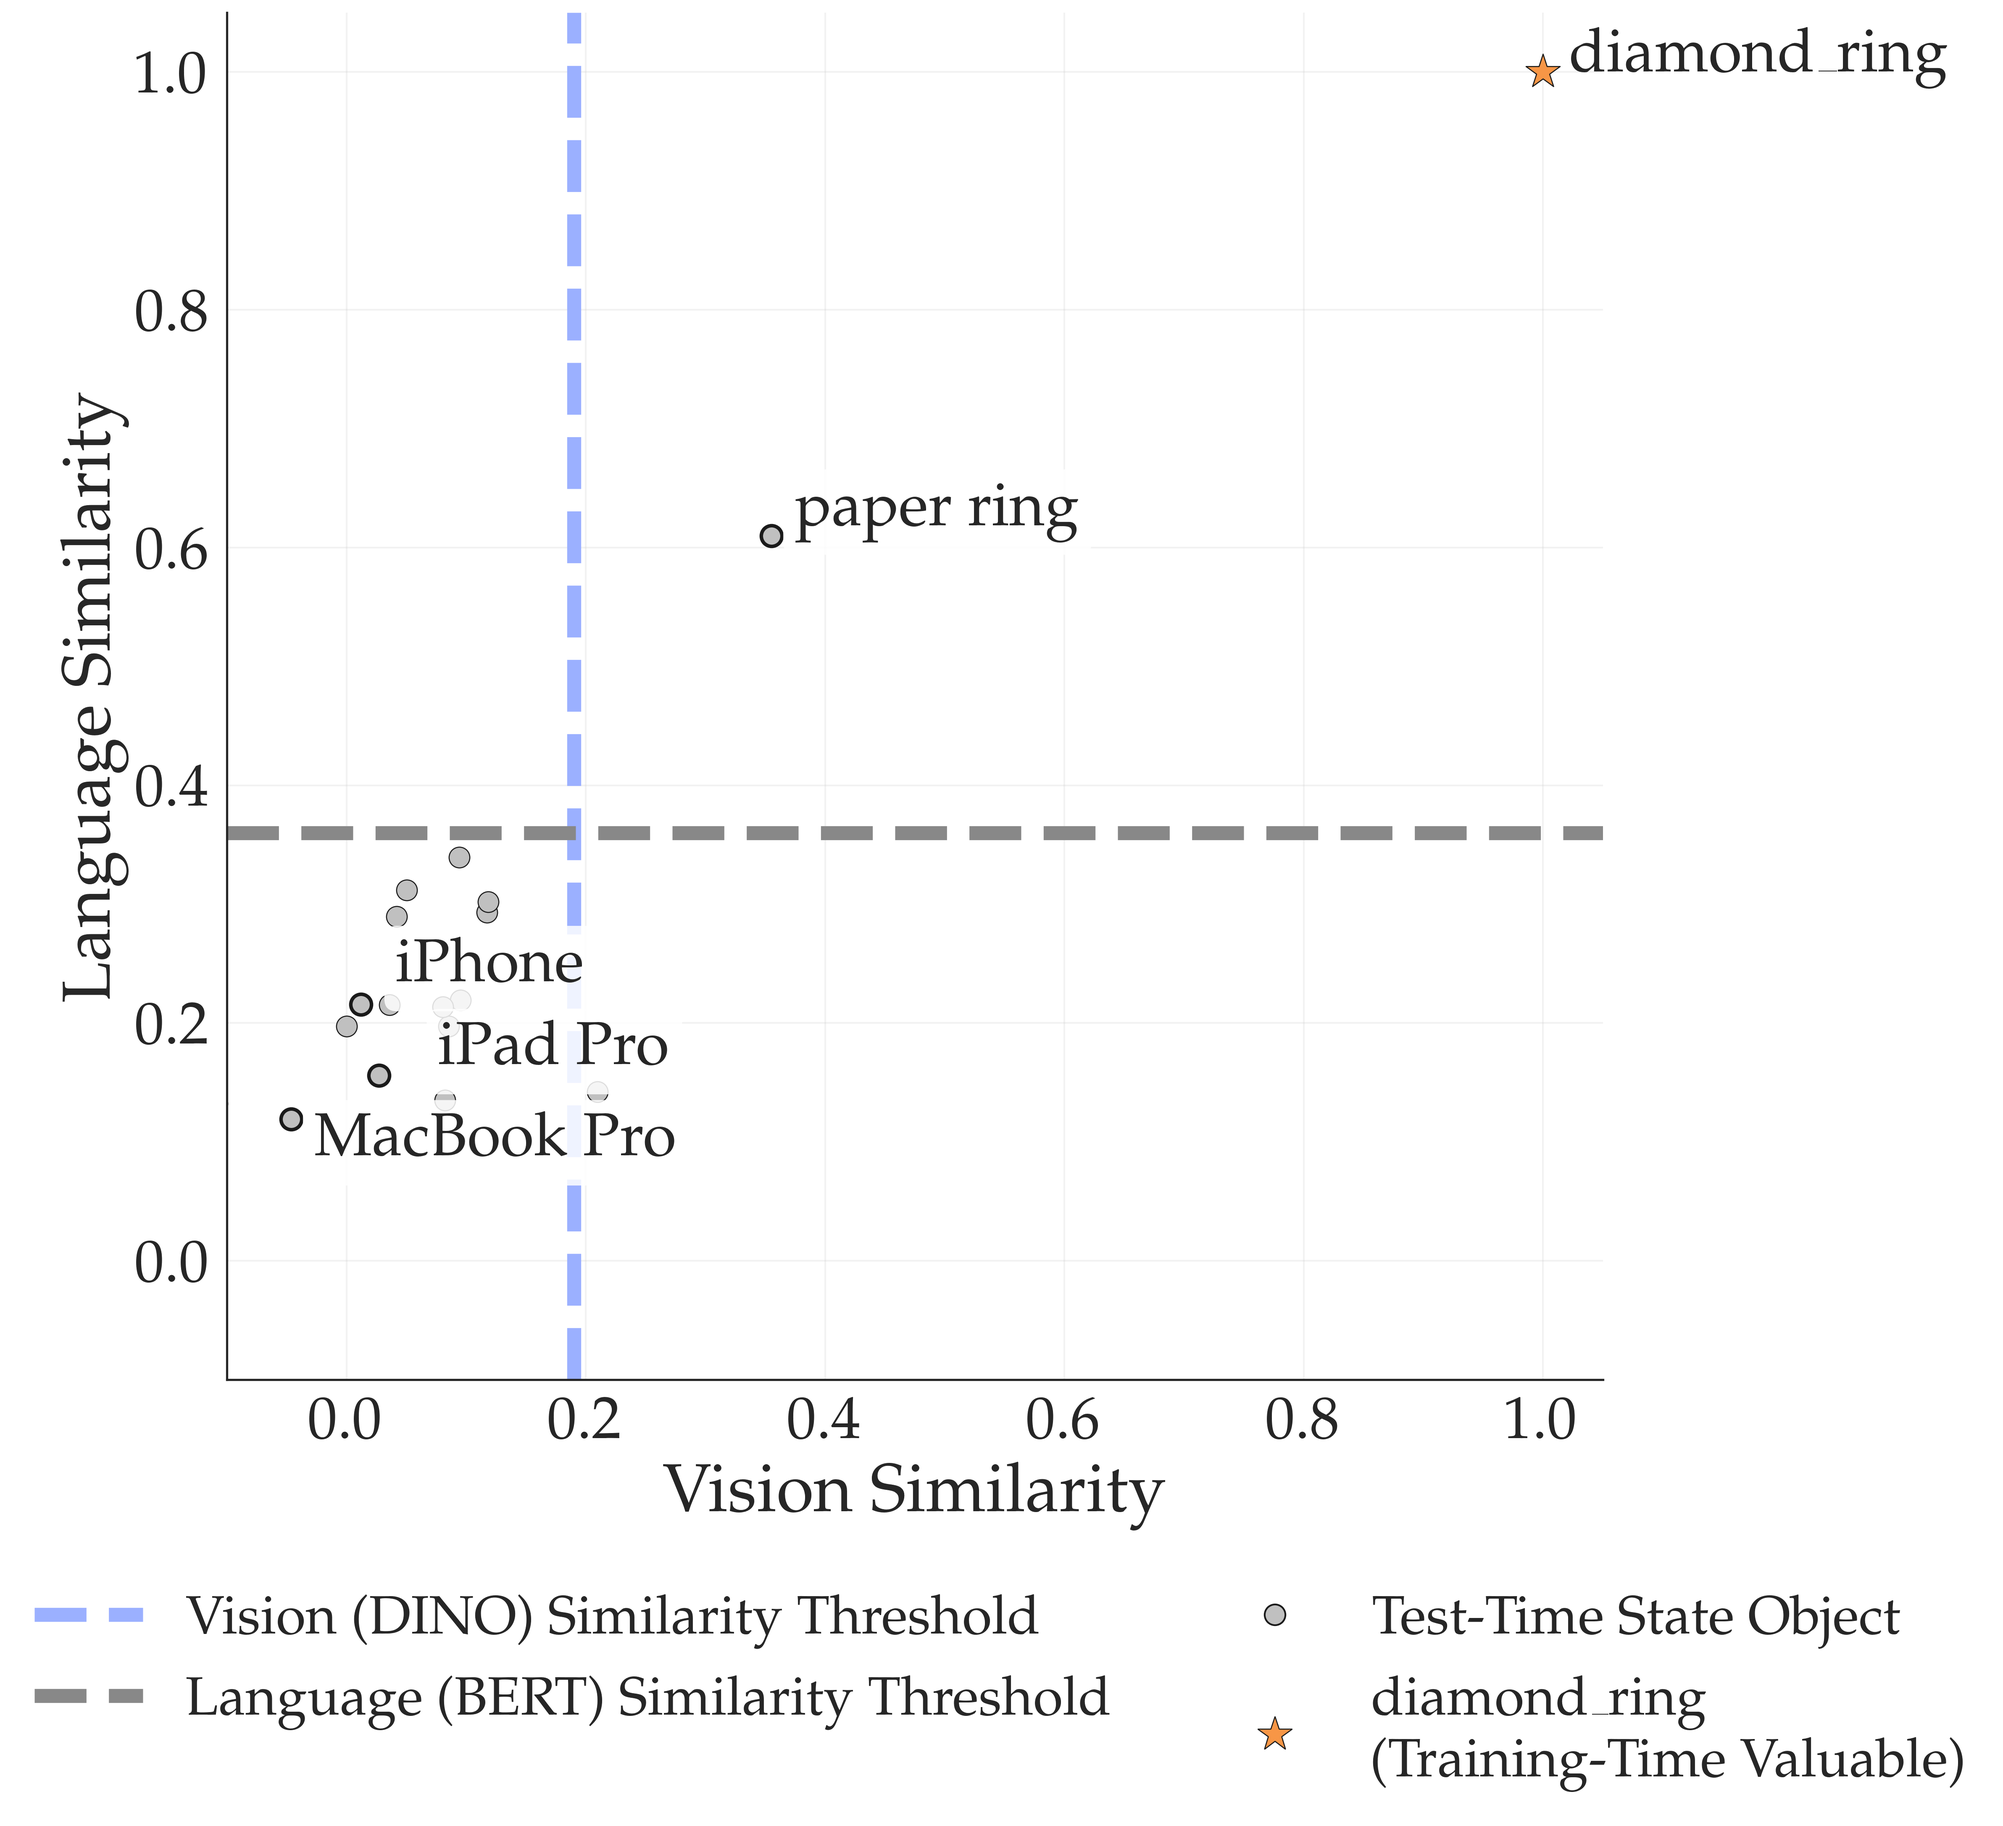
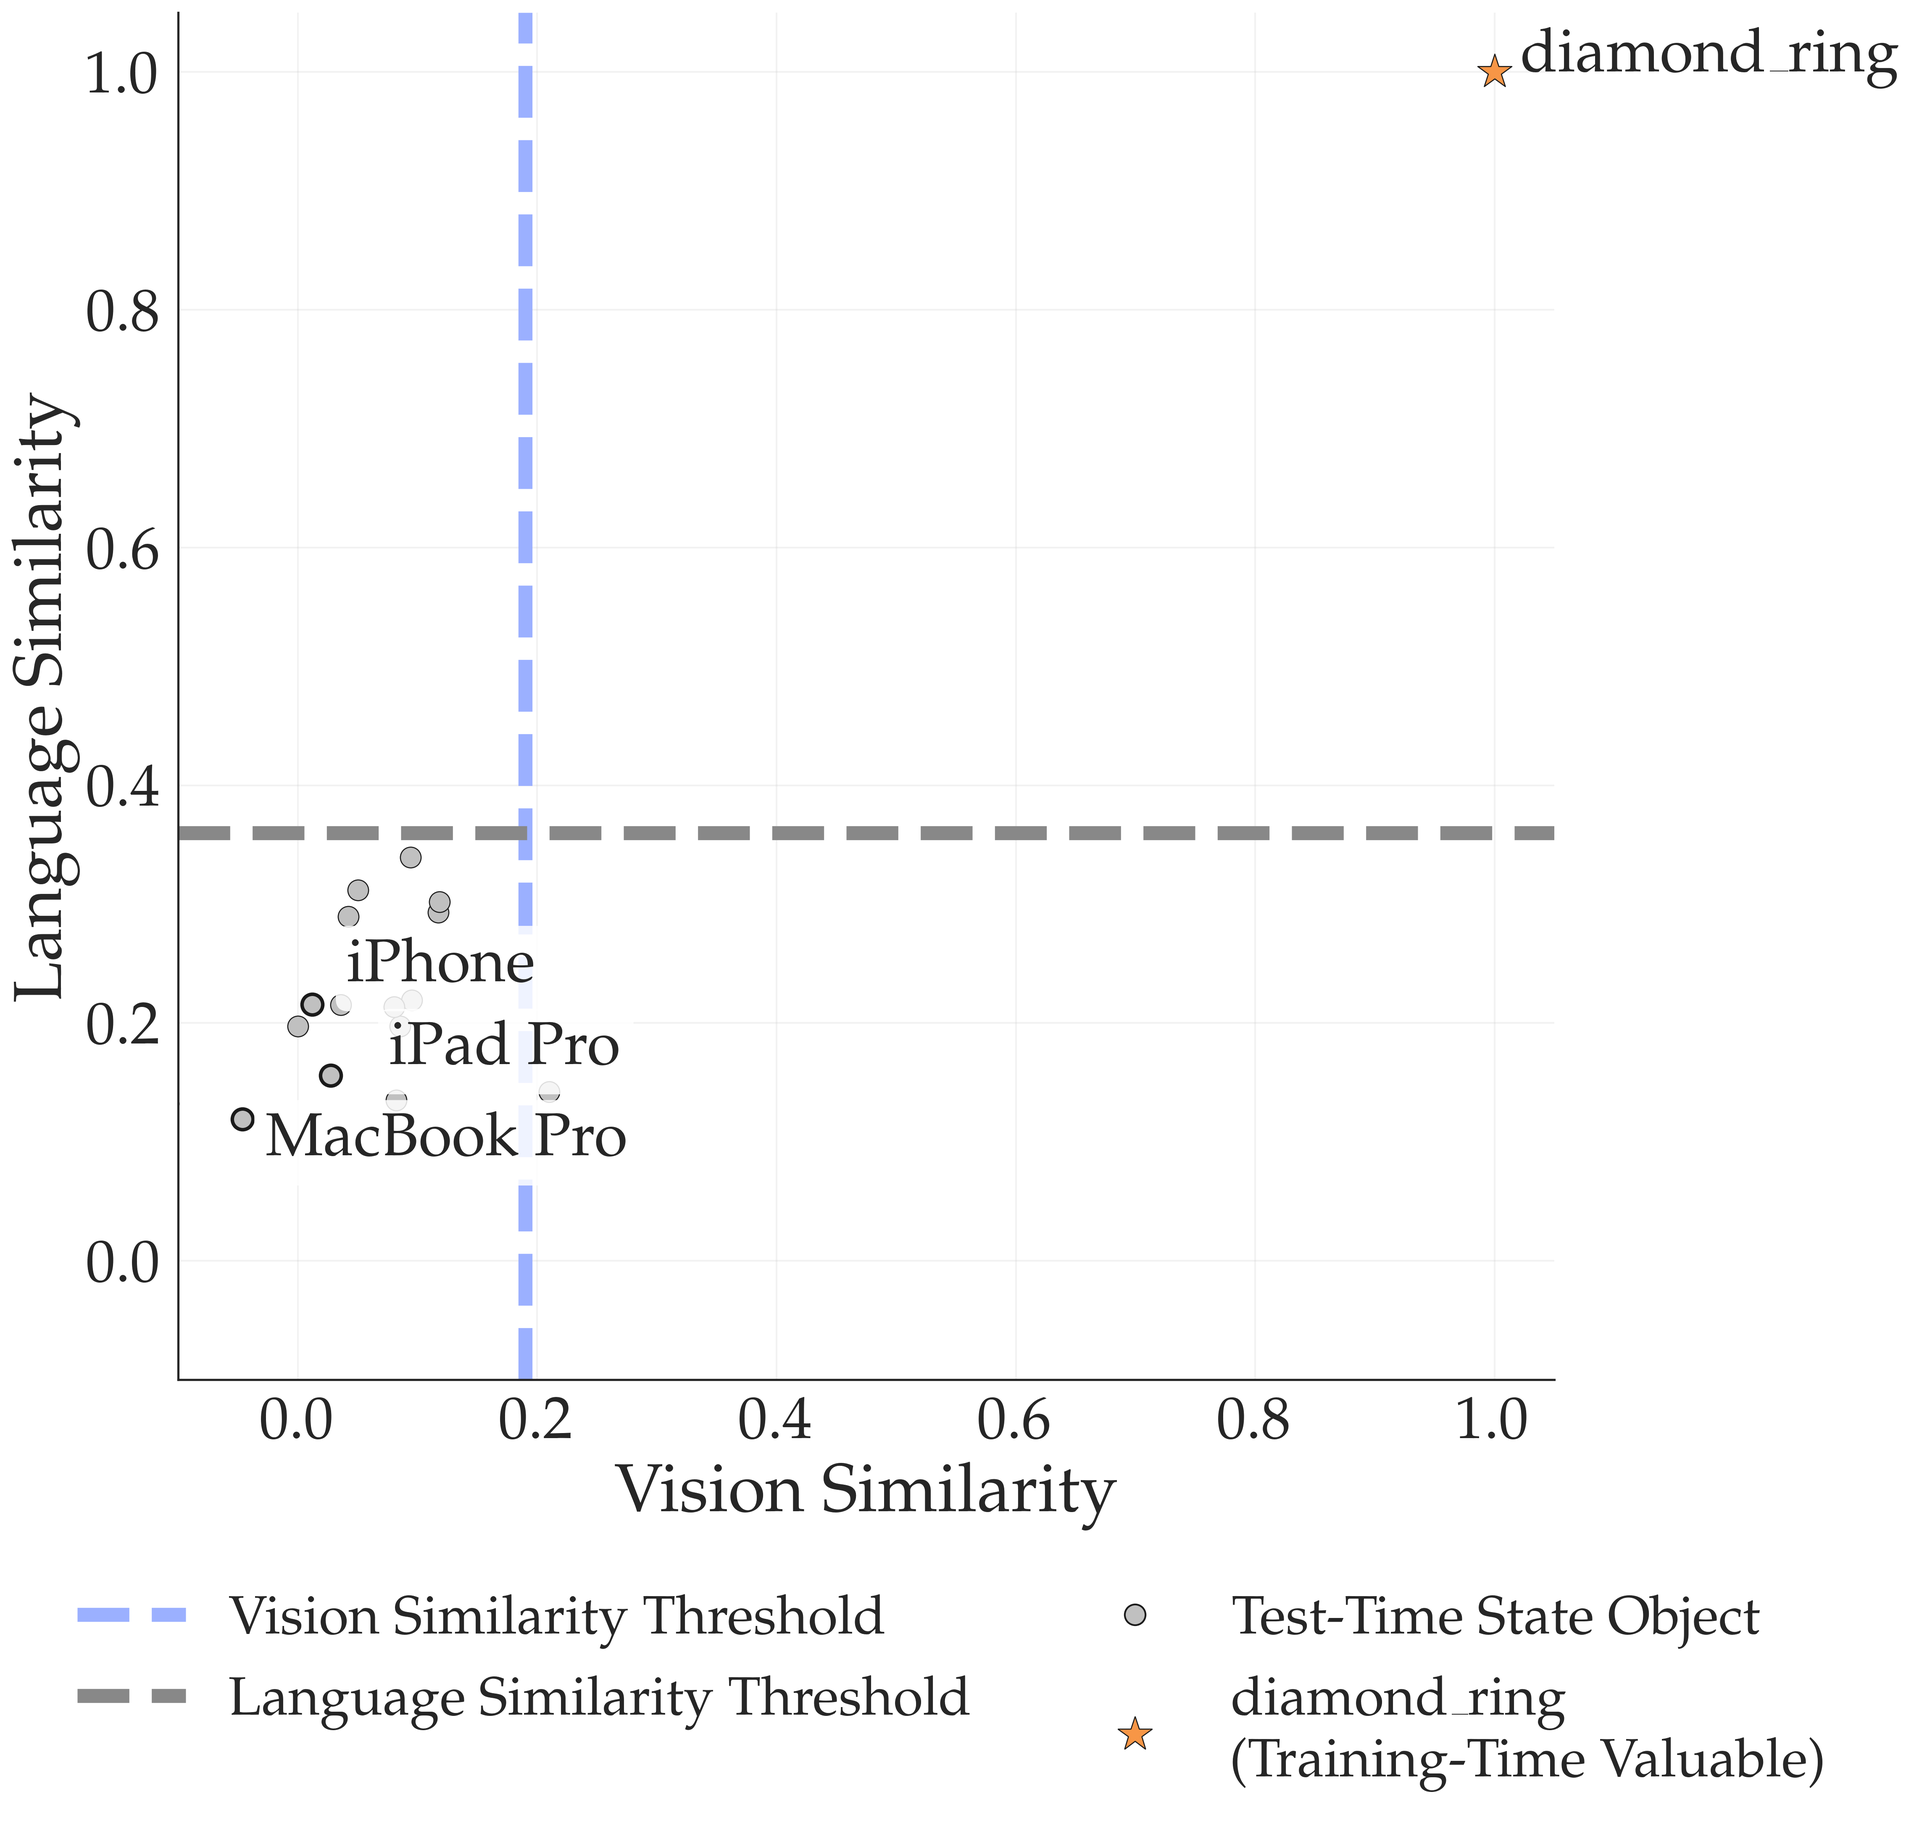
fixed scatter image

diff --git a/docs/index.html b/docs/index.html
@@ -27,7 +27,7 @@
   <script src="./static/js/index.js"></script>
 </head>
 
-<body>
+<body>  
 
 <!-- Removed the top navigation row entirely (the links above the title). -->
 
@@ -302,7 +302,7 @@
               <div style="width:100%; display:flex; justify-content:center; align-items:flex-start;">
                 <img src="./static/images/store_art_supplies_similarity_scatter_sim.png"
                     alt="Language-vision similarity plot for pack backpack with art supplies"
-                    style="width:95%; border-radius:8px;"/>
+                    style="width:100%; border-radius:8px;"/>
               </div>
               <p class="is-size-6" style="margin:0.45rem auto 0 auto; text-align:left;">
                 Language-vision similarity plot for Pack Backpack with <i>Art Supplies</i>. 
@@ -502,7 +502,7 @@
   </div>
 </section>
 
-<footer class="footer">
+<footer class="footer"> 
   <div class="container">
     <div class="content has-text-centered">
       <a class="icon-link" href="./static/pdfs/GIFT__Test_Time_Reward_Generalization_from_Human_Intent.pdf">
